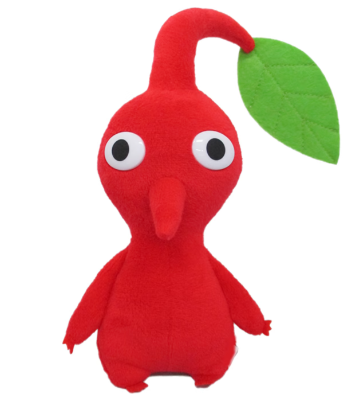
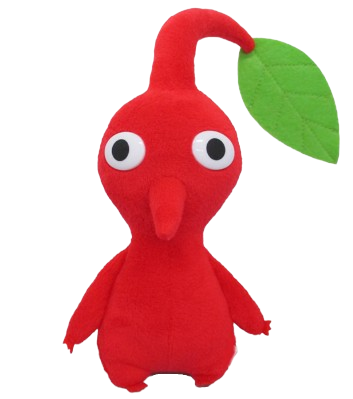
laatste aanpassingen

diff --git a/html/bitmap-envectorafbeeldingen.html b/html/bitmap-envectorafbeeldingen.html
@@ -3,6 +3,7 @@
     <head>
         <title>Bitmap- en vectorafbeeldingen</title>
         <link rel="stylesheet" href="../css/opmaak.css">
+        <link rel="icon" type="image/x-icon" href="/afbeeldingen/pikmin.jpg">
     </head>
     <body>
         <ul>

diff --git a/html/binairstelsel.html b/html/binairstelsel.html
@@ -3,6 +3,7 @@
     <head>
         <title>Binair stelsel</title>
         <link rel="stylesheet" href="../css/opmaak.css">
+        <link rel="icon" type="image/x-icon" href="/afbeeldingen/pikmin.jpg">
     </head>
     <body>
         <ul>

diff --git a/html/kleurmodellen.html b/html/kleurmodellen.html
@@ -3,6 +3,7 @@
     <head>
         <title>Kleurmodellen</title>
         <link rel="stylesheet" href="../css/opmaak.css">
+        <link rel="icon" type="image/x-icon" href="/afbeeldingen/pikmin.jpg">
     </head>
     <body>
         <ul>

diff --git a/html/compressie.html b/html/compressie.html
@@ -3,6 +3,7 @@
     <head>
         <title>Compressie</title>
         <link rel="stylesheet" href="../css/opmaak.css">
+        <link rel="icon" type="image/x-icon" href="/afbeeldingen/pikmin.jpg">
     </head>
     <body>
         <ul>
